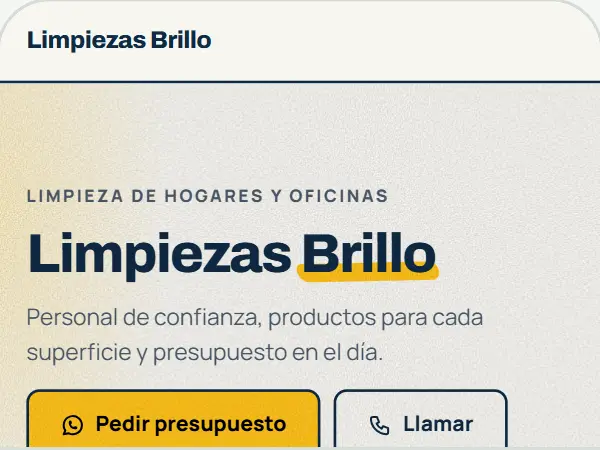
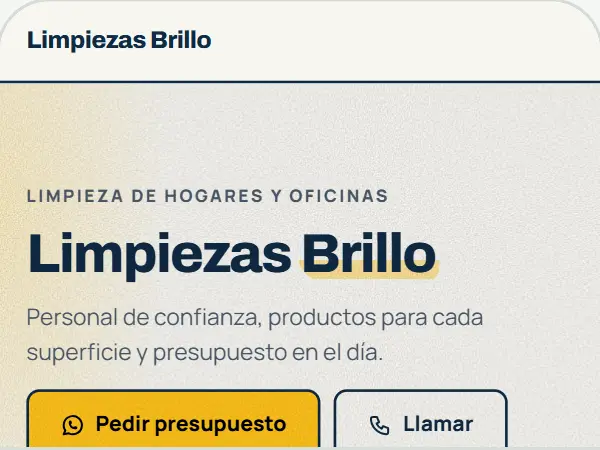
Brillo: el rotulador deja partir nombres compuestos y no tapa el texto
- Subrayado como fondo en línea (box-decoration-break:clone) con el acento
  mezclado al 42 %: sigue cada línea y no oculta letras con acentos oscuros.
- Test por método: ningún diseño pone nowrap en piezas del h1.

Changed region(s): [[0.48, 0.56, 0.75, 0.6533]]

diff --git a/src/features/servicios/creativas/brillo.ts b/src/features/servicios/creativas/brillo.ts
@@ -104,8 +104,7 @@ ${lema(c, 'w-lema-bloque')}${c.bloqueAcciones}
 .w-d-brillo .w-cab-txt>*+*{margin-top:clamp(14px,2cqw,22px)}
 .w-d-brillo .w-sector{font:800 .82rem/1.2 var(--w-ft-texto);letter-spacing:.14em;text-transform:uppercase;color:var(--w-suave)}
 .w-d-brillo .w-cab h1{margin-bottom:.2em;font-size:min(clamp(2.6rem,7.4cqw,5.4rem),var(--w-h1-tope,99em));font-weight:800;line-height:1.02;letter-spacing:-.03em;overflow-wrap:break-word;text-wrap:balance}
-.w-d-brillo .w-rotulador{position:relative;white-space:nowrap;z-index:0}
-.w-d-brillo .w-rotulador::after{content:"";position:absolute;z-index:-1;left:-.06em;right:-.06em;bottom:.04em;height:.34em;border-radius:.2em .5em .3em .6em;background:var(--w-c);transform:rotate(-1.2deg)}
+.w-d-brillo .w-rotulador{padding:0 .06em;margin:0 -.06em;border-radius:.2em .5em .3em .6em;background:linear-gradient(transparent 60%,color-mix(in srgb,var(--w-c) 42%,transparent) 0 92%,transparent 0);-webkit-box-decoration-break:clone;box-decoration-break:clone}
 .w-d-brillo .w-cab .w-lema-bloque{font-size:clamp(1.08rem,2.2cqw,1.3rem);line-height:1.55;color:var(--w-suave);max-width:38ch}
 .w-d-brillo .w-cab .w-boton{min-height:54px;padding-inline:24px}
 .w-d-brillo .w-cab-vis{position:relative;min-width:0;max-width:30rem;width:100%;justify-self:center}

diff --git a/src/features/servicios/creativas.test.ts b/src/features/servicios/creativas.test.ts
@@ -31,6 +31,21 @@ describe('diseños de autor', () => {
     for (const f of usadas) expect(x.fuentes, `${id} usa ${f}`).toContain(f);
   });
 
+  // Un nombre compuesto largo («Martínez-Fernández-Rodríguez») tiene que poder partirse en el h1:
+  // si una pieza decorativa del nombre lleva nowrap, desborda la cabecera en móvil.
+  it.each(DISENOS.map((x) => [x.id]))('%s deja partir el nombre del h1 en varias líneas', (id) => {
+    const x = DISENOS.find((d) => d.id === id)!;
+    const html = renderWeb(datos({ plantilla: id, letra: 'diseno', ...x.muestra, negocio: 'Limpiezas Martínez-Fernández-Rodríguez' }));
+    const h1 = html.match(/<h1[^>]*>([\s\S]*?)<\/h1>/)?.[1] ?? '';
+    for (const [, clases] of h1.matchAll(/class="([^"]+)"/g)) {
+      for (const cl of clases!.split(/\s+/)) {
+        for (const [, regla] of x.css.matchAll(new RegExp(`\\.${cl}(?![\\w-])[^{]*\\{([^}]*)\\}`, 'g'))) {
+          expect(regla, `${id} .${cl}`).not.toMatch(/white-space:\s*nowrap/);
+        }
+      }
+    }
+  });
+
   it('con otra letra el diseño usa esa letra y no la suya', () => {
     const html = renderWeb(datos({ plantilla: 'pulso', letra: 'clasica' }));
     expect(html).not.toContain('ash-anton');
